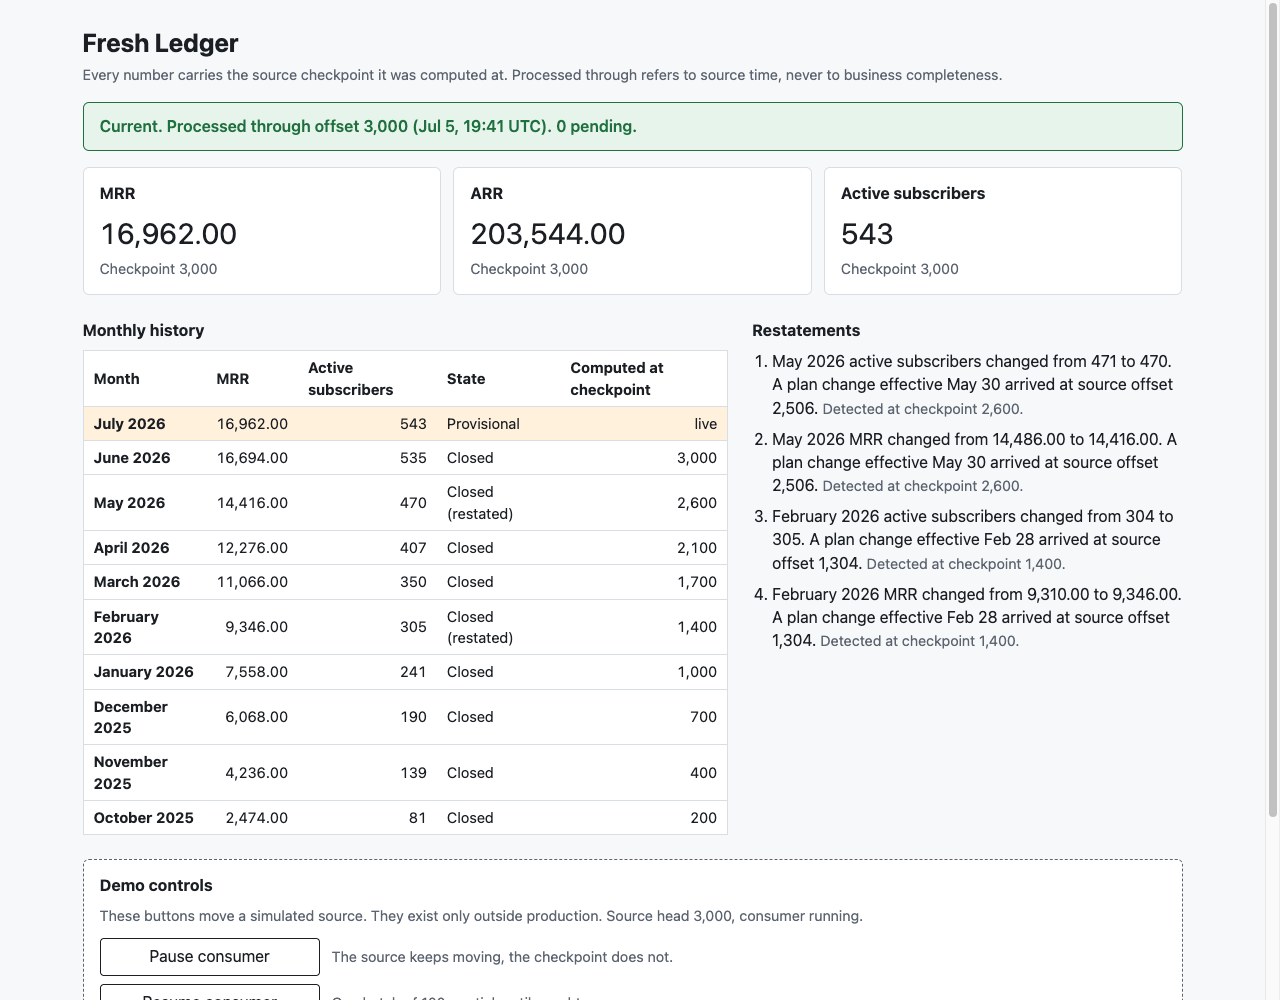
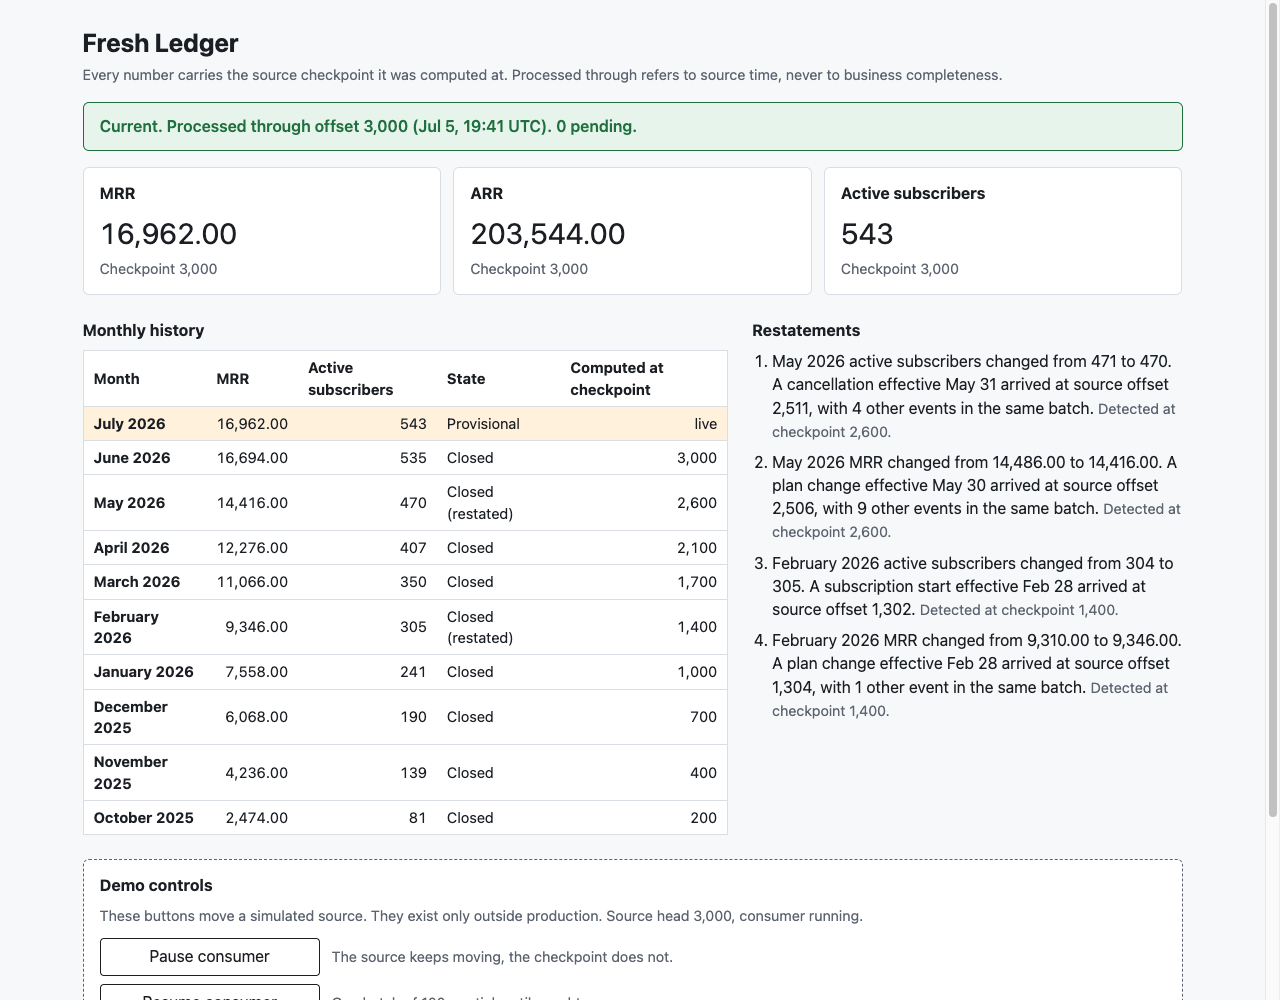
Retake the demo screenshots from the top and describe the cause rule

Changed region(s): [[0.5938, 0.372, 0.9375, 0.713]]

diff --git a/README.md b/README.md
@@ -27,7 +27,7 @@ Fresh database, consumer running. Every card carries the checkpoint it was compu
 
 ![Delayed](docs/02-delayed.png)
 
-The consumer is paused and the source has moved 400 deliveries ahead. Values do not change, and the banner says Delayed with the pending count instead of pretending.
+The consumer is paused and the source has moved 500 deliveries ahead. Values do not change, and the banner says Delayed with the pending count instead of pretending.
 
 ![Restated](docs/03-restated.png)
 
@@ -36,9 +36,9 @@ A cancellation effective in July arrives at source offset 3,501 on September 28.
 The script, about two minutes from `npm run reset` and `npm run dev`:
 
 1. Fresh database, consumer running. The dashboard reads Current, processed through offset 3,000, 0 pending. Every number carries the checkpoint it was computed at.
-2. Pause the consumer, then advance the source four times. The banner reads Delayed, processed through 3,000 of 3,400, 400 pending, and the values are unchanged. The source moved, we did not, and the dashboard says so.
-3. Resume. The checkpoint climbs by 100 per second, values change, pending reaches 0, Current again.
-4. Inject the late cancellation. The consumer stays Current after one more batch. The restatements list gains two sentences for July 2026 (MRR and active subscribers), the July row carries the restated marker, and the provisional month reflects the cancellation. It arrived now, it happened in July, and it is recorded in July.
+2. Pause the consumer, then advance the source five times, which releases the whole reserve. The banner reads Delayed, processed through 3,000 of 3,500, 500 pending, and the values are unchanged. The source moved, we did not, and the dashboard says so.
+3. Resume. The checkpoint climbs by 100 per second, values change, pending reaches 0, Current again. The reserve carries ordinary late events of its own, so a few restatements detected at checkpoints up to 3,500 appear during this beat.
+4. Inject the late cancellation, which releases offset 3,501 alone. The consumer stays Current after one more batch of one delivery. The restatements list gains exactly two sentences for July 2026 (MRR and active subscribers) detected at checkpoint 3,501, the July row carries the restated marker, August closes for the first time already including the cancellation, and September is provisional. It arrived now, it happened in July, and it is recorded in July.
 5. Replay the duplicate. The checkpoint advances by one, no value moves, no restatement appears. One logical event, two deliveries, one effect.
 6. End on the invariants table below.
 
@@ -80,11 +80,11 @@ A crash before commit leaves nothing: the checkpoint is unchanged and the batch 
 
 ### Closed versus provisional months
 
-A month is closed when it is strictly before the month of the checkpoint delivery's `source_received_at`. The month containing the checkpoint is provisional and is served live from the projections. Closed months are recomputed in SQL and stored in `monthly_metrics` with the checkpoint they were computed at. Only closed months can be restated.
+A month is closed when it is strictly before the month of the checkpoint delivery's `source_received_at`. The month containing the checkpoint is provisional and is served from the latest snapshot, so its value and its checkpoint are the ones shown on the cards. Closed months are recomputed in SQL and stored in `monthly_metrics` with the checkpoint they were computed at. Only closed months can be restated.
 
 ### Restatements
 
-When a recompute changes a closed month's MRR or active subscriber count, the consumer writes a `restatements` row with the previous value, the new value, the cause (the applied event in that batch with the earliest `effective_at` touching that month) and the checkpoint that detected it. The API renders each row as a deterministic sentence: "July 2026 MRR changed from 17,626.00 to 17,606.00. A cancellation effective Jul 17 arrived at source offset 3,501." The cause rule is a heuristic when several late events land in one batch; it names the earliest one.
+When a recompute changes a closed month's MRR or active subscriber count, the consumer writes a `restatements` row with the previous value, the new value, a cause and the checkpoint that detected it. The cause is chosen per metric from the batch's applied, non-conflict events: only events that can move that metric in the direction it moved (a plan change cannot change the active count, a cancellation cannot raise it), preferring events effective inside the month over earlier ones whose state carries into it, earliest first. When more than one candidate touches the month, the row keeps the count and the sentence says so, because one event is rarely the whole story. The API renders each row as a deterministic sentence: "July 2026 MRR changed from 17,626.00 to 17,606.00. A cancellation effective Jul 17 arrived at source offset 3,501." or, with company, "... arrived at source offset 3,410, with 2 other events in the same batch."
 
 ### The snapshot as checkpoint and the live head
 
@@ -167,20 +167,20 @@ Why SQL and not a loop: a reconciliation is only convincing if it does not share
 
 ## Invariants
 
-| Id     | Statement                                                                                                                                                     | Owning test                                                                |
-| ------ | ------------------------------------------------------------------------------------------------------------------------------------------------------------- | -------------------------------------------------------------------------- |
-| INV-1  | Idempotent effect: the same `event_id` at two offsets yields one event, one applied and one duplicate delivery, identical projections and metrics.            | `server/test/consumer.test.ts`, "INV-1 and INV-8"                          |
-| INV-2  | Reconciliation: for every snapshot, `current_mrr` equals the sum over projections and the fold recomputed from events, in SQL.                                | `server/test/consumer.test.ts`, "INV-2 and INV-3"                          |
-| INV-3  | ARR derivation: `current_arr = current_mrr * 12` for every snapshot, in SQL.                                                                                  | `server/test/consumer.test.ts`, "INV-2 and INV-3"                          |
-| INV-4  | Checkpoint monotonic and bounded: each snapshot's checkpoint is greater than the previous and never above the head.                                           | `server/test/consumer.test.ts`, "INV-4"                                    |
-| INV-5  | No torn reads: values and checkpoint come from one snapshot row even when a newer snapshot lands mid-request; `pending = head - checkpoint`.                  | `server/test/api.test.ts`, "INV-5"                                         |
-| INV-6  | Fold determinism: any input order gives the same state; rebuilding every projection from the ledger reproduces the same rows, and SQL agrees with the fold.   | `server/test/fold.test.ts` and `server/test/projections.test.ts`, "INV-6"  |
-| INV-7  | Late-event restatement: the seeded late cancellation restates the closed month it belongs to with cause and checkpoint, and no other month.                   | `server/test/consumer.test.ts`, "INV-7 and INV-9"                          |
-| INV-8  | Duplicate does not restate: redelivering the late cancellation creates no event, no restatement, no projection change, and advances the checkpoint.           | `server/test/consumer.test.ts`, "INV-1 and INV-8"                          |
-| INV-9  | Late is not delayed: after the late cancellation the API is `current`, the closed month is marked restated and the provisional month reflects it.             | `server/test/api.test.ts`, "INV-9"                                         |
-| INV-10 | Delayed honesty: paused with the head advanced, the API never says `current`, values are unchanged, pending grows; the banner renders Delayed with the count. | `server/test/api.test.ts` and `web/src/FreshnessBanner.test.tsx`, "INV-10" |
-| INV-11 | Decimal correctness: an annual price that does not divide evenly (10,001 cents) still reconciles exactly in SQL.                                              | `server/test/projections.test.ts`, "INV-11"                                |
-| INV-12 | Conflict containment: a semantic conflict is classified, excluded from the fold, counted, and the checkpoint advances past it.                                | `server/test/fold.test.ts` and `server/test/consumer.test.ts`, "INV-12"    |
+| Id     | Statement                                                                                                                                                                 | Owning test                                                                |
+| ------ | ------------------------------------------------------------------------------------------------------------------------------------------------------------------------- | -------------------------------------------------------------------------- |
+| INV-1  | Idempotent effect: the same `event_id` at two offsets yields one event, one applied and one duplicate delivery, identical projections and metrics.                        | `server/test/consumer.test.ts`, "INV-1 and INV-8"                          |
+| INV-2  | Reconciliation: for every snapshot, `current_mrr` equals the sum over projections and the fold recomputed from events, in SQL.                                            | `server/test/consumer.test.ts`, "INV-2 and INV-3"                          |
+| INV-3  | ARR derivation: `current_arr = current_mrr * 12` for every snapshot, in SQL.                                                                                              | `server/test/consumer.test.ts`, "INV-2 and INV-3"                          |
+| INV-4  | Checkpoint monotonic and bounded: each snapshot's checkpoint is greater than the previous and never above the head.                                                       | `server/test/consumer.test.ts`, "INV-4"                                    |
+| INV-5  | No torn reads: values and checkpoint come from one snapshot row even when a newer snapshot lands mid-request; `pending = head - checkpoint`.                              | `server/test/api.test.ts`, "INV-5"                                         |
+| INV-6  | Fold determinism: any input order gives the same state; rebuilding every projection from the ledger reproduces the same rows, and SQL agrees with the fold.               | `server/test/fold.test.ts` and `server/test/projections.test.ts`, "INV-6"  |
+| INV-7  | Late-event restatement: the seeded late cancellation restates the closed month it belongs to with cause and checkpoint, and no other month; causes are chosen per metric. | `server/test/consumer.test.ts`, "INV-7 and INV-9"                          |
+| INV-8  | Duplicate does not restate: redelivering the late cancellation creates no event, no restatement, no projection change, and advances the checkpoint.                       | `server/test/consumer.test.ts`, "INV-1 and INV-8"                          |
+| INV-9  | Late is not delayed: after the late cancellation the API is `current`, the closed month is marked restated and the provisional month reflects it.                         | `server/test/api.test.ts`, "INV-9"                                         |
+| INV-10 | Delayed honesty: paused with the head advanced, the API never says `current`, values are unchanged, pending grows; the banner renders Delayed with the count.             | `server/test/api.test.ts` and `web/src/FreshnessBanner.test.tsx`, "INV-10" |
+| INV-11 | Decimal correctness: an annual price that does not divide evenly (10,001 cents) still reconciles exactly in SQL.                                                          | `server/test/projections.test.ts`, "INV-11"                                |
+| INV-12 | Conflict containment: a semantic conflict is classified, excluded from the fold, counted, and the checkpoint advances past it.                                            | `server/test/fold.test.ts` and `server/test/consumer.test.ts`, "INV-12"    |
 
 Server tests run against a real PostgreSQL. The generated fixture is seeded (`SEED=20260928`) and regenerates byte-identical; a test checks the committed file against a fresh generation.
 
